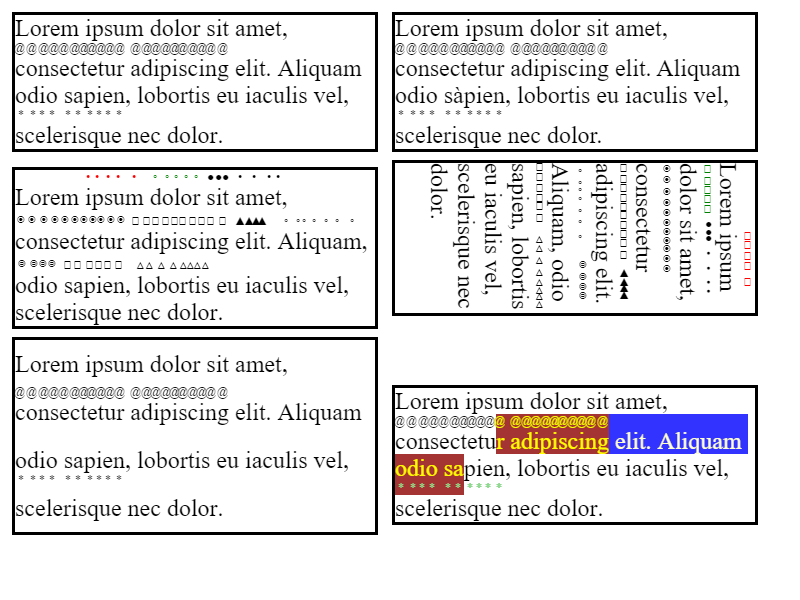
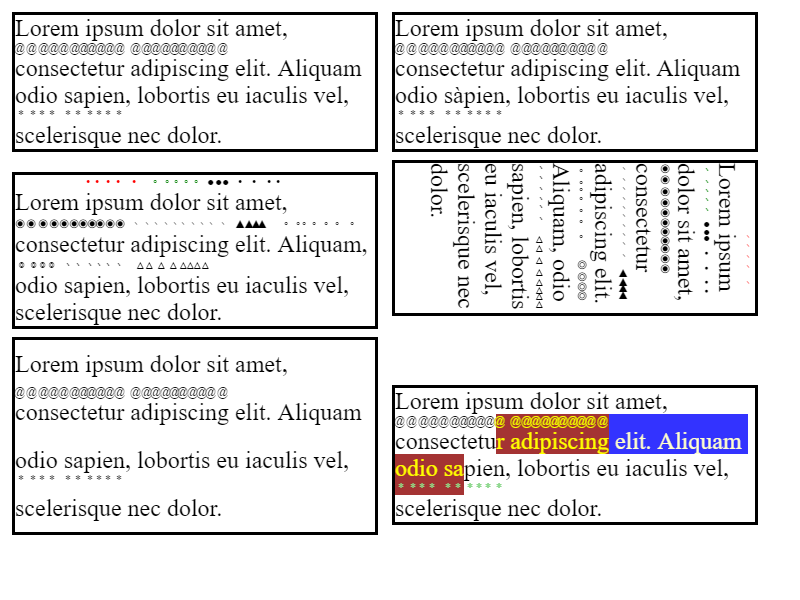
Reland of Add code to call skia's matchFamilyStyleCharacter API, which uses the (patchset #7 id:150001 of https://codereview.chromium.org/1883483002/ )
Reland https://codereview.chromium.org/1883483002/ and rebaseline
failing tests (new results are better).

Also added Win10 baselines for fast/text/emphasis which
isn't failing but is marked as NeedsManualRebaseline.

This reverts commit 6485a0d3465ba3b0bcca6385f8740a5c2e7c0138.

BUG=459056

Review URL: https://codereview.chromium.org/1907063002

Cr-Original-Commit-Position: refs/heads/master@{#389131}
Cr-Mirrored-From: https://chromium.googlesource.com/chromium/src
Cr-Mirrored-Commit: 16e5c30b6ccfcb54bf27ebbd200e6ad0e3bdf9df

Changed region(s): [[0.0, 0.27, 0.4688, 0.45], [0.6562, 0.27, 0.7812, 0.51], [0.8125, 0.27, 0.9375, 0.51]]

diff --git a/WebKit/LayoutTests/fast/text/font-fallback-win-expected.html b/WebKit/LayoutTests/fast/text/font-fallback-win-expected.html
@@ -1,0 +1,17 @@
+<!DOCTYPE html>
+<html>
+<head>
+    <meta charset="utf-8" />
+    <title>Symbol font fallback</title>
+</head>
+<body>
+    <p>Three dimensional angle:</p>
+    <p style="font-family: 'Segoe UI Symbol';">&#x27c0;</p>
+    <p>Arrows: left, up, right, down</p>
+    <p style="font-family: 'Yu Gothic UI';">&#xffe9;&#xffea;&#xffeb;&#xffec;</p>
+    <p>Syriac:</p>
+    <p style="font-family: 'Segoe UI Historic';">ܐܬܘܪܝܐ</p>
+    <p>Gothic:</p>
+    <p style="font-family: 'Segoe UI Historic';">𐌲𐌿𐍄𐌹𐍃𐌺</p>
+</body>
+</html>

diff --git a/WebKit/LayoutTests/fast/text/font-fallback-win.html b/WebKit/LayoutTests/fast/text/font-fallback-win.html
@@ -1,0 +1,17 @@
+<!DOCTYPE html>
+<html>
+<head>
+    <meta charset="utf-8" />
+    <title>Symbol font fallback</title>
+</head>
+<body>
+    <p>Three dimensional angle:</p>
+    <p>&#x27c0;</p>
+    <p>Arrows: left, up, right, down</p>
+    <p>&#xffe9;&#xffea;&#xffeb;&#xffec;</p>
+    <p>Syriac:</p>
+    <p>ܐܬܘܪܝܐ</p>
+    <p>Gothic:</p>
+    <p>𐌲𐌿𐍄𐌹𐍃𐌺</p>
+</body>
+</html>

diff --git a/WebKit/Source/platform/fonts/skia/FontCacheSkia.cpp b/WebKit/Source/platform/fonts/skia/FontCacheSkia.cpp
@@ -67,23 +67,6 @@ namespace blink {
 // http://www.unicode.org/reports/tr51/proposed.html#Emoji_Script
 static const char* kAndroidColorEmojiLocale = "und-Zsye";
 
-// SkFontMgr requires script-based locale names, like "zh-Hant" and "zh-Hans",
-// instead of "zh-CN" and "zh-TW".
-static CString toSkFontMgrLocale(const String& locale)
-{
-    if (!locale.startsWith("zh", TextCaseInsensitive))
-        return locale.ascii();
-
-    switch (localeToScriptCodeForFontSelection(locale)) {
-    case USCRIPT_SIMPLIFIED_HAN:
-        return "zh-Hans";
-    case USCRIPT_TRADITIONAL_HAN:
-        return "zh-Hant";
-    default:
-        return locale.ascii();
-    }
-}
-
 // This function is called on android or when we are emulating android fonts on linux and the
 // embedder has overriden the default fontManager with WebFontRendering::setSkiaFontMgr.
 // static
@@ -171,25 +154,6 @@ PassRefPtr<SimpleFontData> FontCache::getLastResortFallbackFont(const FontDescri
     return fontDataFromFontPlatformData(fontPlatformData, shouldRetain);
 }
 
-#if OS(WIN) || OS(LINUX)
-static inline SkFontStyle fontStyle(const FontDescription& fontDescription)
-{
-    int width = static_cast<int>(fontDescription.stretch());
-    int weight = (fontDescription.weight() - FontWeight100 + 1) * 100;
-    SkFontStyle::Slant slant = fontDescription.style() == FontStyleItalic
-        ? SkFontStyle::kItalic_Slant
-        : SkFontStyle::kUpright_Slant;
-    return SkFontStyle(weight, width, slant);
-}
-
-static_assert(static_cast<int>(FontStretchUltraCondensed) == static_cast<int>(SkFontStyle::kUltraCondensed_Width),
-    "FontStretchUltraCondensed should map to kUltraCondensed_Width");
-static_assert(static_cast<int>(FontStretchNormal) == static_cast<int>(SkFontStyle::kNormal_Width),
-    "FontStretchNormal should map to kNormal_Width");
-static_assert(static_cast<int>(FontStretchUltraExpanded) == static_cast<int>(SkFontStyle::kUltaExpanded_Width),
-    "FontStretchUltraExpanded should map to kUltaExpanded_Width");
-#endif
-
 PassRefPtr<SkTypeface> FontCache::createTypeface(const FontDescription& fontDescription, const FontFaceCreationParams& creationParams, CString& name)
 {
 #if !OS(WIN) && !OS(ANDROID)
@@ -220,9 +184,8 @@ PassRefPtr<SkTypeface> FontCache::createTypeface(const FontDescription& fontDesc
 
     if (m_fontManager) {
         return adoptRef(useDirectWrite()
-            ? m_fontManager->matchFamilyStyle(name.data(), fontStyle(fontDescription))
-            : m_fontManager->legacyCreateTypeface(name.data(), fontStyle(fontDescription))
-            );
+            ? m_fontManager->matchFamilyStyle(name.data(), fontDescription.skiaFontStyle())
+            : m_fontManager->legacyCreateTypeface(name.data(), fontDescription.skiaFontStyle()));
     }
 #endif
 
@@ -231,7 +194,7 @@ PassRefPtr<SkTypeface> FontCache::createTypeface(const FontDescription& fontDesc
     // provided font Manager rather than calling SkTypeface::CreateFromName which may redirect the
     // call to the default font Manager.
     if (m_fontManager)
-        return adoptRef(m_fontManager->matchFamilyStyle(name.data(), fontStyle(fontDescription)));
+        return adoptRef(m_fontManager->matchFamilyStyle(name.data(), fontDescription.skiaFontStyle()));
 #endif
 
     // FIXME: Use m_fontManager, SkFontStyle and matchFamilyStyle instead of

diff --git a/WebKit/Source/platform/fonts/win/FontCacheSkiaWin.cpp b/WebKit/Source/platform/fonts/win/FontCacheSkiaWin.cpp
@@ -33,6 +33,7 @@
 
 #include "SkFontMgr.h"
 #include "SkTypeface_win.h"
+#include "platform/Language.h"
 #include "platform/RuntimeEnabledFeatures.h"
 #include "platform/fonts/FontDescription.h"
 #include "platform/fonts/FontFaceCreationParams.h"
@@ -140,6 +141,37 @@ PassRefPtr<SimpleFontData> FontCache::fallbackFontForCharacter(
     if (family) {
         FontFaceCreationParams createByFamily(AtomicString(family, wcslen(family)));
         data = getFontPlatformData(fontDescription, createByFamily);
+    }
+
+    if ((!data || !data->fontContainsCharacter(character)) && s_useSkiaFontFallback) {
+        const char* bcp47Locale = nullptr;
+        int localeCount = 0;
+        CString fontLocale;
+        // If the font description has a locale, use that. Otherwise, Skia will
+        // fall back on the user's default locale.
+        // TODO(kulshin): extract locale fallback logic from
+        //   FontCacheAndroid.cpp and share that code
+        if (!fontDescription.locale().isEmpty()) {
+            fontLocale = toSkFontMgrLocale(fontDescription.locale());
+            bcp47Locale = fontLocale.data();
+            localeCount = 1;
+        }
+
+        CString familyName = fontDescription.family().family().utf8();
+
+        SkTypeface* typeface = m_fontManager->matchFamilyStyleCharacter(
+            familyName.data(),
+            fontDescription.skiaFontStyle(),
+            &bcp47Locale,
+            localeCount,
+            character);
+        if (typeface) {
+            SkString skiaFamily;
+            typeface->getFamilyName(&skiaFamily);
+            FontFaceCreationParams createByFamily(
+                AtomicString(skiaFamily.c_str()));
+            data = getFontPlatformData(fontDescription, createByFamily);
+        }
     }
 
     // Last resort font list : PanUnicode. CJK fonts have a pretty

diff --git a/WebKit/Source/platform/fonts/FontCache.cpp b/WebKit/Source/platform/fonts/FontCache.cpp
@@ -81,6 +81,7 @@ bool FontCache::s_antialiasedTextEnabled = false;
 bool FontCache::s_lcdTextEnabled = false;
 bool FontCache::s_useSubpixelPositioning = false;
 float FontCache::s_deviceScaleFactor = 1.0;
+bool FontCache::s_useSkiaFontFallback = false;
 #endif // OS(WIN)
 
 FontCache* FontCache::fontCache()
@@ -374,5 +375,21 @@ void FontCache::dumpShapeResultCache(WebProcessMemoryDump* memoryDump)
     memoryDump->addSuballocation(dump->guid(), String(WTF::Partitions::kAllocatedObjectPoolName));
 }
 
+// SkFontMgr requires script-based locale names, like "zh-Hant" and "zh-Hans",
+// instead of "zh-CN" and "zh-TW".
+CString toSkFontMgrLocale(const String& locale)
+{
+    if (!locale.startsWith("zh", TextCaseInsensitive))
+        return locale.ascii();
+
+    switch (localeToScriptCodeForFontSelection(locale)) {
+    case USCRIPT_SIMPLIFIED_HAN:
+        return "zh-Hans";
+    case USCRIPT_TRADITIONAL_HAN:
+        return "zh-Hant";
+    default:
+        return locale.ascii();
+    }
+}
 
 } // namespace blink

diff --git a/WebKit/Source/platform/fonts/FontDescription.cpp b/WebKit/Source/platform/fonts/FontDescription.cpp
@@ -278,4 +278,22 @@ unsigned FontDescription::styleHashWithoutFamilyList() const
     return hash;
 }
 
+SkFontStyle FontDescription::skiaFontStyle() const
+{
+    int width = static_cast<int>(stretch());
+    SkFontStyle::Slant slant = style() == FontStyleItalic
+        ? SkFontStyle::kItalic_Slant
+        : SkFontStyle::kUpright_Slant;
+    return SkFontStyle(numericFontWeight(weight()), width, slant);
+    static_assert(
+        static_cast<int>(FontStretchUltraCondensed) == static_cast<int>(SkFontStyle::kUltraCondensed_Width),
+        "FontStretchUltraCondensed should map to kUltraCondensed_Width");
+    static_assert(
+        static_cast<int>(FontStretchNormal) == static_cast<int>(SkFontStyle::kNormal_Width),
+        "FontStretchNormal should map to kNormal_Width");
+    static_assert(
+        static_cast<int>(FontStretchUltraExpanded) == static_cast<int>(SkFontStyle::kUltaExpanded_Width),
+        "FontStretchUltraExpanded should map to kUltaExpanded_Width");
+}
+
 } // namespace blink

diff --git a/WebKit/Source/platform/fonts/FontCache.h b/WebKit/Source/platform/fonts/FontCache.h
@@ -123,6 +123,7 @@ public:
     static const AtomicString& smallCaptionFontFamily() { return *s_smallCaptionFontFamilyName; }
     static int32_t statusFontHeight() { return s_statusFontHeight; }
     static const AtomicString& statusFontFamily() { return *s_statusFontFamilyName; }
+    static void setUseSkiaFontFallback(bool useSkiaFontFallback) { s_useSkiaFontFallback = useSkiaFontFallback; }
 #endif
 
     typedef uint32_t FontFileKey;
@@ -201,6 +202,7 @@ private:
     static int32_t s_smallCaptionFontHeight;
     static AtomicString* s_statusFontFamilyName;
     static int32_t s_statusFontHeight;
+    static bool s_useSkiaFontFallback;
 #endif
 
     friend class SimpleFontData; // For fontDataFromFontPlatformData
@@ -214,6 +216,8 @@ public:
     FontCachePurgePreventer() { FontCache::fontCache()->disablePurging(); }
     ~FontCachePurgePreventer() { FontCache::fontCache()->enablePurging(); }
 };
+
+CString toSkFontMgrLocale(const String& locale);
 
 } // namespace blink
 

diff --git a/WebKit/Source/platform/fonts/FontDescription.h b/WebKit/Source/platform/fonts/FontDescription.h
@@ -25,6 +25,7 @@
 #ifndef FontDescription_h
 #define FontDescription_h
 
+#include "SkFontStyle.h"
 #include "platform/FontFamilyNames.h"
 #include "platform/fonts/FontCacheKey.h"
 #include "platform/fonts/FontFamily.h"
@@ -235,6 +236,8 @@ public:
     unsigned styleHashWithoutFamilyList() const;
     unsigned bitmapFields() const { return m_fieldsAsUnsigned[0]; }
     unsigned auxiliaryBitmapFields() const { return m_fieldsAsUnsigned[1]; }
+
+    SkFontStyle skiaFontStyle() const;
 
 private:
     FontFamily m_familyList; // The list of font families to be used.

diff --git a/WebKit/Source/platform/fonts/FontTraits.h b/WebKit/Source/platform/fonts/FontTraits.h
@@ -46,6 +46,12 @@ enum FontWeight {
     FontWeightBold = FontWeight700
 };
 
+// Converts a FontWeight to its corresponding numeric value
+inline int numericFontWeight(FontWeight weight)
+{
+    return (weight - FontWeight100 + 1) * 100;
+}
+
 // Numeric values matching OS/2 & Windows Metrics usWidthClass table.
 // https://www.microsoft.com/typography/otspec/os2.htm
 enum FontStretch {

diff --git a/WebKit/public/web/win/WebFontRendering.h b/WebKit/public/web/win/WebFontRendering.h
@@ -26,6 +26,7 @@ public:
     BLINK_EXPORT static void setLCDOrientation(SkFontHost::LCDOrientation);
     BLINK_EXPORT static void setAntialiasedTextEnabled(bool);
     BLINK_EXPORT static void setLCDTextEnabled(bool);
+    BLINK_EXPORT static void setUseSkiaFontFallback(bool);
 };
 
 } // namespace blink

diff --git a/WebKit/Source/web/win/WebFontRendering.cpp b/WebKit/Source/web/win/WebFontRendering.cpp
@@ -75,4 +75,10 @@ void WebFontRendering::setLCDTextEnabled(bool enabled)
     FontCache::setLCDTextEnabled(enabled);
 }
 
+// static
+void WebFontRendering::setUseSkiaFontFallback(bool useSkiaFontFallback)
+{
+    FontCache::setUseSkiaFontFallback(useSkiaFontFallback);
+}
+
 } // namespace blink
